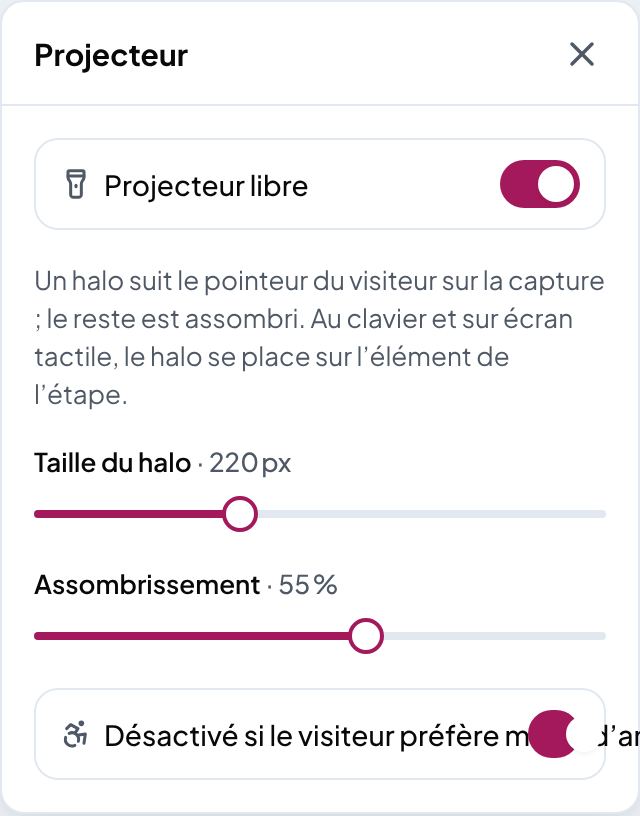
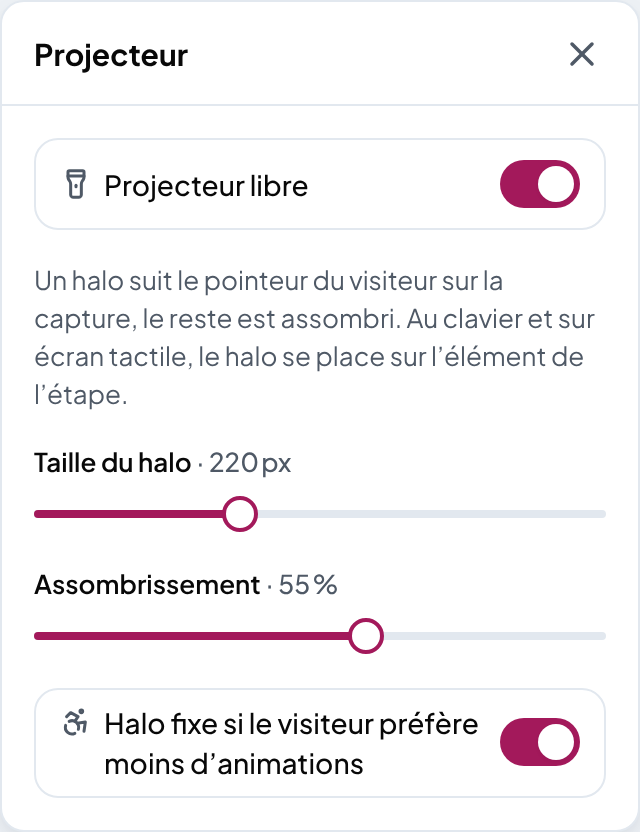
EXT-02 §6.3 : réponses au dev sur le projecteur libre, libellé « Halo fixe » sur deux lignes
Claude-Session: https://claude.ai/code/session_016yn81XNDaqi4emq7ho6CNv

diff --git a/docs/ux/maquettes/refonte/ext02/popup-projecteur-clair.html b/docs/ux/maquettes/refonte/ext02/popup-projecteur-clair.html
@@ -282,10 +282,12 @@ button{font:inherit;color:inherit;cursor:pointer}
 .bau .wave i{background:#c4cad3}.bau .wave i.p{background:#a3195b}.bau .vtime{color:#4f5966;font-size:12px}.bau .ib{width:28px;height:28px;color:#1a1f26}
 .bub .bt.pr{background:#a3195b;border-color:#a3195b;color:#fff}
 .mob .bub{left:16px;top:24%}
+
+.rw.wr .k{white-space:normal;align-items:flex-start}.rw.wr .k svg{flex:none;margin-top:2px}.rw .sw{flex:none}
 </style></head><body class=""><div class="canvas"><div class="pan" id="pop"><div class="ph2"><b>Projecteur</b><button class="ib" aria-label="Fermer"><svg xmlns="http://www.w3.org/2000/svg" width="20" height="20" viewBox="0 0 24 24" fill="none" stroke="currentColor" stroke-width="2.1" stroke-linecap="round" stroke-linejoin="round" class="lucide lucide-x" aria-hidden="true"><path d="M18 6 6 18"></path><path d="m6 6 12 12"></path></svg></button></div><div class="pb">
   <div class="rs"><div><div class="rw"><span class="k"><svg xmlns="http://www.w3.org/2000/svg" width="16" height="16" viewBox="0 0 24 24" fill="none" stroke="currentColor" stroke-width="2.25" stroke-linecap="round" stroke-linejoin="round" class="lucide lucide-flashlight" aria-hidden="true"><path d="M12 13v1"></path><path d="M17 2a1 1 0 0 1 1 1v4a3 3 0 0 1-.6 1.8l-.6.8A4 4 0 0 0 16 12v8a2 2 0 0 1-2 2H10a2 2 0 0 1-2-2v-8a4 4 0 0 0-.8-2.4l-.6-.8A3 3 0 0 1 6 7V3a1 1 0 0 1 1-1z"></path><path d="M6 6h12"></path></svg>Projecteur libre</span><button class="sw on" role="switch" aria-checked="true" aria-label="Projecteur libre"></button></div></div></div>
-  <p class="mu" style="margin:0;font-size:13px">Un halo suit le pointeur du visiteur sur la capture ; le reste est assombri. Au clavier et sur écran tactile, le halo se place sur l’élément de l’étape.</p>
+  <p class="mu" style="margin:0;font-size:13px">Un halo suit le pointeur du visiteur sur la capture, le reste est assombri. Au clavier et sur écran tactile, le halo se place sur l’élément de l’étape.</p>
   <div><span class="fl2">Taille du halo <span class="mu" style="font-weight:500">· 220 px</span></span><div class="slider" role="slider" aria-label="Taille du halo" aria-valuemin="120" aria-valuemax="400" aria-valuenow="220"><span class="tr"></span><span class="fi2" style="width:36%"></span><span class="th" style="left:36%"></span></div></div>
   <div><span class="fl2">Assombrissement <span class="mu" style="font-weight:500">· 55 %</span></span><div class="slider" role="slider" aria-label="Assombrissement" aria-valuemin="20" aria-valuemax="80" aria-valuenow="55"><span class="tr"></span><span class="fi2" style="width:58%"></span><span class="th" style="left:58%"></span></div></div>
-  <div class="rs"><div><div class="rw"><span class="k"><svg xmlns="http://www.w3.org/2000/svg" width="16" height="16" viewBox="0 0 24 24" fill="none" stroke="currentColor" stroke-width="2.25" stroke-linecap="round" stroke-linejoin="round" class="lucide lucide-accessibility" aria-hidden="true"><circle cx="16" cy="4" r="1"></circle><path d="m18 19 1-7-6 1"></path><path d="m5 8 3-3 5.5 3-2.36 3.5"></path><path d="M4.24 14.5a5 5 0 0 0 6.88 6"></path><path d="M13.76 17.5a5 5 0 0 0-6.88-6"></path></svg>Désactivé si le visiteur préfère moins d’animations</span><button class="sw on" role="switch" aria-checked="true" aria-label="Respecter la préférence moins d’animations"></button></div></div></div>
+  <div class="rs"><div><div class="rw wr"><span class="k"><svg xmlns="http://www.w3.org/2000/svg" width="16" height="16" viewBox="0 0 24 24" fill="none" stroke="currentColor" stroke-width="2.25" stroke-linecap="round" stroke-linejoin="round" class="lucide lucide-accessibility" aria-hidden="true"><circle cx="16" cy="4" r="1"></circle><path d="m18 19 1-7-6 1"></path><path d="m5 8 3-3 5.5 3-2.36 3.5"></path><path d="M4.24 14.5a5 5 0 0 0 6.88 6"></path><path d="M13.76 17.5a5 5 0 0 0-6.88-6"></path></svg>Halo fixe si le visiteur préfère moins d’animations</span><button class="sw on" role="switch" aria-checked="true" aria-label="Halo fixe si le visiteur préfère moins d’animations"></button></div></div></div>
   </div></div></div></body></html>

diff --git a/docs/ux/maquettes/refonte/ext02/popup-projecteur-sombre.html b/docs/ux/maquettes/refonte/ext02/popup-projecteur-sombre.html
@@ -282,10 +282,12 @@ button{font:inherit;color:inherit;cursor:pointer}
 .bau .wave i{background:#c4cad3}.bau .wave i.p{background:#a3195b}.bau .vtime{color:#4f5966;font-size:12px}.bau .ib{width:28px;height:28px;color:#1a1f26}
 .bub .bt.pr{background:#a3195b;border-color:#a3195b;color:#fff}
 .mob .bub{left:16px;top:24%}
+
+.rw.wr .k{white-space:normal;align-items:flex-start}.rw.wr .k svg{flex:none;margin-top:2px}.rw .sw{flex:none}
 </style></head><body class=""><div class="canvas"><div class="pan" id="pop"><div class="ph2"><b>Projecteur</b><button class="ib" aria-label="Fermer"><svg xmlns="http://www.w3.org/2000/svg" width="20" height="20" viewBox="0 0 24 24" fill="none" stroke="currentColor" stroke-width="2.1" stroke-linecap="round" stroke-linejoin="round" class="lucide lucide-x" aria-hidden="true"><path d="M18 6 6 18"></path><path d="m6 6 12 12"></path></svg></button></div><div class="pb">
   <div class="rs"><div><div class="rw"><span class="k"><svg xmlns="http://www.w3.org/2000/svg" width="16" height="16" viewBox="0 0 24 24" fill="none" stroke="currentColor" stroke-width="2.25" stroke-linecap="round" stroke-linejoin="round" class="lucide lucide-flashlight" aria-hidden="true"><path d="M12 13v1"></path><path d="M17 2a1 1 0 0 1 1 1v4a3 3 0 0 1-.6 1.8l-.6.8A4 4 0 0 0 16 12v8a2 2 0 0 1-2 2H10a2 2 0 0 1-2-2v-8a4 4 0 0 0-.8-2.4l-.6-.8A3 3 0 0 1 6 7V3a1 1 0 0 1 1-1z"></path><path d="M6 6h12"></path></svg>Projecteur libre</span><button class="sw on" role="switch" aria-checked="true" aria-label="Projecteur libre"></button></div></div></div>
-  <p class="mu" style="margin:0;font-size:13px">Un halo suit le pointeur du visiteur sur la capture ; le reste est assombri. Au clavier et sur écran tactile, le halo se place sur l’élément de l’étape.</p>
+  <p class="mu" style="margin:0;font-size:13px">Un halo suit le pointeur du visiteur sur la capture, le reste est assombri. Au clavier et sur écran tactile, le halo se place sur l’élément de l’étape.</p>
   <div><span class="fl2">Taille du halo <span class="mu" style="font-weight:500">· 220 px</span></span><div class="slider" role="slider" aria-label="Taille du halo" aria-valuemin="120" aria-valuemax="400" aria-valuenow="220"><span class="tr"></span><span class="fi2" style="width:36%"></span><span class="th" style="left:36%"></span></div></div>
   <div><span class="fl2">Assombrissement <span class="mu" style="font-weight:500">· 55 %</span></span><div class="slider" role="slider" aria-label="Assombrissement" aria-valuemin="20" aria-valuemax="80" aria-valuenow="55"><span class="tr"></span><span class="fi2" style="width:58%"></span><span class="th" style="left:58%"></span></div></div>
-  <div class="rs"><div><div class="rw"><span class="k"><svg xmlns="http://www.w3.org/2000/svg" width="16" height="16" viewBox="0 0 24 24" fill="none" stroke="currentColor" stroke-width="2.25" stroke-linecap="round" stroke-linejoin="round" class="lucide lucide-accessibility" aria-hidden="true"><circle cx="16" cy="4" r="1"></circle><path d="m18 19 1-7-6 1"></path><path d="m5 8 3-3 5.5 3-2.36 3.5"></path><path d="M4.24 14.5a5 5 0 0 0 6.88 6"></path><path d="M13.76 17.5a5 5 0 0 0-6.88-6"></path></svg>Désactivé si le visiteur préfère moins d’animations</span><button class="sw on" role="switch" aria-checked="true" aria-label="Respecter la préférence moins d’animations"></button></div></div></div>
+  <div class="rs"><div><div class="rw wr"><span class="k"><svg xmlns="http://www.w3.org/2000/svg" width="16" height="16" viewBox="0 0 24 24" fill="none" stroke="currentColor" stroke-width="2.25" stroke-linecap="round" stroke-linejoin="round" class="lucide lucide-accessibility" aria-hidden="true"><circle cx="16" cy="4" r="1"></circle><path d="m18 19 1-7-6 1"></path><path d="m5 8 3-3 5.5 3-2.36 3.5"></path><path d="M4.24 14.5a5 5 0 0 0 6.88 6"></path><path d="M13.76 17.5a5 5 0 0 0-6.88-6"></path></svg>Halo fixe si le visiteur préfère moins d’animations</span><button class="sw on" role="switch" aria-checked="true" aria-label="Halo fixe si le visiteur préfère moins d’animations"></button></div></div></div>
   </div></div></div></body></html>

diff --git a/docs/ux/maquettes/refonte/ext02/lecteur-projecteur-clair-390.html b/docs/ux/maquettes/refonte/ext02/lecteur-projecteur-clair-390.html
@@ -282,4 +282,6 @@ button{font:inherit;color:inherit;cursor:pointer}
 .bau .wave i{background:#c4cad3}.bau .wave i.p{background:#a3195b}.bau .vtime{color:#4f5966;font-size:12px}.bau .ib{width:28px;height:28px;color:#1a1f26}
 .bub .bt.pr{background:#a3195b;border-color:#a3195b;color:#fff}
 .mob .bub{left:16px;top:24%}
+
+.rw.wr .k{white-space:normal;align-items:flex-start}.rw.wr .k svg{flex:none;margin-top:2px}.rw .sw{flex:none}
 </style></head><body class="mob"><div class="pstage"><div class="pshot"><div class="app"><div class="sd"></div><div class="mn"><i style="width:35%;height:18px"></i><i></i><i style="width:85%"></i><i style="width:70%"></i><i style="height:90px"></i></div></div><div class="spot" aria-hidden="true"></div><span class="cur" aria-hidden="true"><svg xmlns="http://www.w3.org/2000/svg" width="20" height="20" viewBox="0 0 24 24" fill="none" stroke="currentColor" stroke-width="2.1" stroke-linecap="round" stroke-linejoin="round" class="lucide lucide-mouse-pointer2 lucide-mouse-pointer-2" aria-hidden="true"><path d="M4.037 4.688a.495.495 0 0 1 .651-.651l16 6.5a.5.5 0 0 1-.063.947l-6.124 1.58a2 2 0 0 0-1.438 1.435l-1.579 6.126a.5.5 0 0 1-.947.063z"></path></svg></span></div></div></body></html>

diff --git a/docs/ux/maquettes/refonte/ext02/lecteur-projecteur-sombre-390.html b/docs/ux/maquettes/refonte/ext02/lecteur-projecteur-sombre-390.html
@@ -282,4 +282,6 @@ button{font:inherit;color:inherit;cursor:pointer}
 .bau .wave i{background:#c4cad3}.bau .wave i.p{background:#a3195b}.bau .vtime{color:#4f5966;font-size:12px}.bau .ib{width:28px;height:28px;color:#1a1f26}
 .bub .bt.pr{background:#a3195b;border-color:#a3195b;color:#fff}
 .mob .bub{left:16px;top:24%}
+
+.rw.wr .k{white-space:normal;align-items:flex-start}.rw.wr .k svg{flex:none;margin-top:2px}.rw .sw{flex:none}
 </style></head><body class="mob"><div class="pstage"><div class="pshot"><div class="app"><div class="sd"></div><div class="mn"><i style="width:35%;height:18px"></i><i></i><i style="width:85%"></i><i style="width:70%"></i><i style="height:90px"></i></div></div><div class="spot" aria-hidden="true"></div><span class="cur" aria-hidden="true"><svg xmlns="http://www.w3.org/2000/svg" width="20" height="20" viewBox="0 0 24 24" fill="none" stroke="currentColor" stroke-width="2.1" stroke-linecap="round" stroke-linejoin="round" class="lucide lucide-mouse-pointer2 lucide-mouse-pointer-2" aria-hidden="true"><path d="M4.037 4.688a.495.495 0 0 1 .651-.651l16 6.5a.5.5 0 0 1-.063.947l-6.124 1.58a2 2 0 0 0-1.438 1.435l-1.579 6.126a.5.5 0 0 1-.947.063z"></path></svg></span></div></div></body></html>

diff --git a/docs/ux/maquettes/refonte/ext02/lecteur-projecteur-clair-1440.html b/docs/ux/maquettes/refonte/ext02/lecteur-projecteur-clair-1440.html
@@ -282,4 +282,6 @@ button{font:inherit;color:inherit;cursor:pointer}
 .bau .wave i{background:#c4cad3}.bau .wave i.p{background:#a3195b}.bau .vtime{color:#4f5966;font-size:12px}.bau .ib{width:28px;height:28px;color:#1a1f26}
 .bub .bt.pr{background:#a3195b;border-color:#a3195b;color:#fff}
 .mob .bub{left:16px;top:24%}
+
+.rw.wr .k{white-space:normal;align-items:flex-start}.rw.wr .k svg{flex:none;margin-top:2px}.rw .sw{flex:none}
 </style></head><body class=""><div class="pstage"><div class="pshot"><div class="app"><div class="sd"></div><div class="mn"><i style="width:35%;height:18px"></i><i></i><i style="width:85%"></i><i style="width:70%"></i><i style="height:90px"></i></div></div><div class="spot" aria-hidden="true"></div><span class="cur" aria-hidden="true"><svg xmlns="http://www.w3.org/2000/svg" width="20" height="20" viewBox="0 0 24 24" fill="none" stroke="currentColor" stroke-width="2.1" stroke-linecap="round" stroke-linejoin="round" class="lucide lucide-mouse-pointer2 lucide-mouse-pointer-2" aria-hidden="true"><path d="M4.037 4.688a.495.495 0 0 1 .651-.651l16 6.5a.5.5 0 0 1-.063.947l-6.124 1.58a2 2 0 0 0-1.438 1.435l-1.579 6.126a.5.5 0 0 1-.947.063z"></path></svg></span></div></div></body></html>

diff --git a/docs/ux/maquettes/refonte/ext02/lecteur-projecteur-sombre-1440.html b/docs/ux/maquettes/refonte/ext02/lecteur-projecteur-sombre-1440.html
@@ -282,4 +282,6 @@ button{font:inherit;color:inherit;cursor:pointer}
 .bau .wave i{background:#c4cad3}.bau .wave i.p{background:#a3195b}.bau .vtime{color:#4f5966;font-size:12px}.bau .ib{width:28px;height:28px;color:#1a1f26}
 .bub .bt.pr{background:#a3195b;border-color:#a3195b;color:#fff}
 .mob .bub{left:16px;top:24%}
+
+.rw.wr .k{white-space:normal;align-items:flex-start}.rw.wr .k svg{flex:none;margin-top:2px}.rw .sw{flex:none}
 </style></head><body class=""><div class="pstage"><div class="pshot"><div class="app"><div class="sd"></div><div class="mn"><i style="width:35%;height:18px"></i><i></i><i style="width:85%"></i><i style="width:70%"></i><i style="height:90px"></i></div></div><div class="spot" aria-hidden="true"></div><span class="cur" aria-hidden="true"><svg xmlns="http://www.w3.org/2000/svg" width="20" height="20" viewBox="0 0 24 24" fill="none" stroke="currentColor" stroke-width="2.1" stroke-linecap="round" stroke-linejoin="round" class="lucide lucide-mouse-pointer2 lucide-mouse-pointer-2" aria-hidden="true"><path d="M4.037 4.688a.495.495 0 0 1 .651-.651l16 6.5a.5.5 0 0 1-.063.947l-6.124 1.58a2 2 0 0 0-1.438 1.435l-1.579 6.126a.5.5 0 0 1-.947.063z"></path></svg></span></div></div></body></html>

diff --git a/docs/ux/specs/ext-02-extension.md b/docs/ux/specs/ext-02-extension.md
@@ -207,6 +207,19 @@ Précisions (réponses au dev, 24/11) :
 ### 6.3 Projecteur libre (aujourd’hui « Bientôt »)
 Panneau « Projecteur » : interrupteur « Projecteur libre », taille du halo (120 à 400 px), assombrissement (20 à 80 %), « Désactivé si le visiteur préfère moins d’animations ». Dans le lecteur : halo net autour du pointeur, bord adouci de 12 px, reste assombri ; au clavier et au toucher, le halo se place sur l’élément de l’étape. C’est le seul dégradé permis, parce qu’il est la fonction elle-même. Tant qu’il n’est pas livré, l’entrée reste « Bientôt », grise, jamais masquée.
 
+Précisions (réponses au dev, 24/11) :
+- **Entrée** : un outil du rail de l’éditeur, groupe « Écran », après Zoom, icône Flashlight, libellé « Projecteur ». Il ouvre le panneau de 320 px.
+- **Portée** : un réglage pour toute la démo, sans « Appliquer à toutes les étapes ».
+- **Étapes concernées** : les étapes capture (image) seulement. Pas de projecteur sur Avant / Après (le curseur de comparaison suit déjà le pointeur), ni sur les étapes HTML, vidéo ou texte. Le texte d’aide du panneau le dit : « Sur les étapes capture. »
+- **Superposition** : la pastille et la bulle restent au-dessus du voile. Projecteur libre activé : le style « Spotlight » des hotspots est ignoré, et le panneau du hotspot l’annonce sous le choix du style (info, 13 px) : « Ignoré tant que le projecteur libre est activé. »
+- **Clavier, toucher et avant le premier mouvement du pointeur** : halo centré sur le premier hotspot de l’étape, à la taille réglée. Étape sans hotspot : pas de voile.
+- **Pointeur hors de la capture** : le halo revient sur l’élément de l’étape (sans hotspot, le voile disparaît). Transition de 200 ms, aucune avec la préférence moins d’animations.
+- **Moins d’animations** : interrupteur « Halo fixe si le visiteur préfère moins d’animations », activé par défaut. Nom accessible identique au libellé visible. Avec la préférence : le voile reste, le halo est fixe sur l’élément de l’étape, sans suivi ni transition. Interrupteur éteint : le halo suit le pointeur même avec la préférence.
+- **Taille** : en px à l’échelle d’une capture de 1 280 px de large, le halo rétrécit avec la capture, au moins 64 px à l’écran. Défauts : 220 px et 55 %.
+- **Panneau de 320 px** : un libellé long passe sur deux lignes, l’interrupteur reste à droite, centré verticalement (maquette `popup-projecteur-*` mise à jour).
+- **Bouton du visiteur** : dans la barre du lecteur, bouton icône 36 px (44 px au toucher), Flashlight, nom « Projecteur », `aria-pressed`, à gauche du bouton des sous-titres. Il n’existe que si le projecteur est activé. Le choix du visiteur vaut pour la session de lecture.
+- **Aperçu dans l’éditeur** : quand l’outil Projecteur est ouvert, halo fixe sur le premier hotspot de l’étape affichée, avec la taille et l’assombrissement réglés. Outil fermé : pas de voile dans le canevas. Le suivi du pointeur se voit dans « Aperçu ».
+
 ### 6.4 Voix off dans le panneau de 320 px (réponse au §18.2 « Voix » et « Sous-titres »)
 Maquettes : `popup-voix-{generer,enregistrer,ecoute,importer,place}-*`, lecteur `lecteur-voix-*`.
 - **Sans voix** : segmenté « Générer », « Enregistrer », « Importer ».
